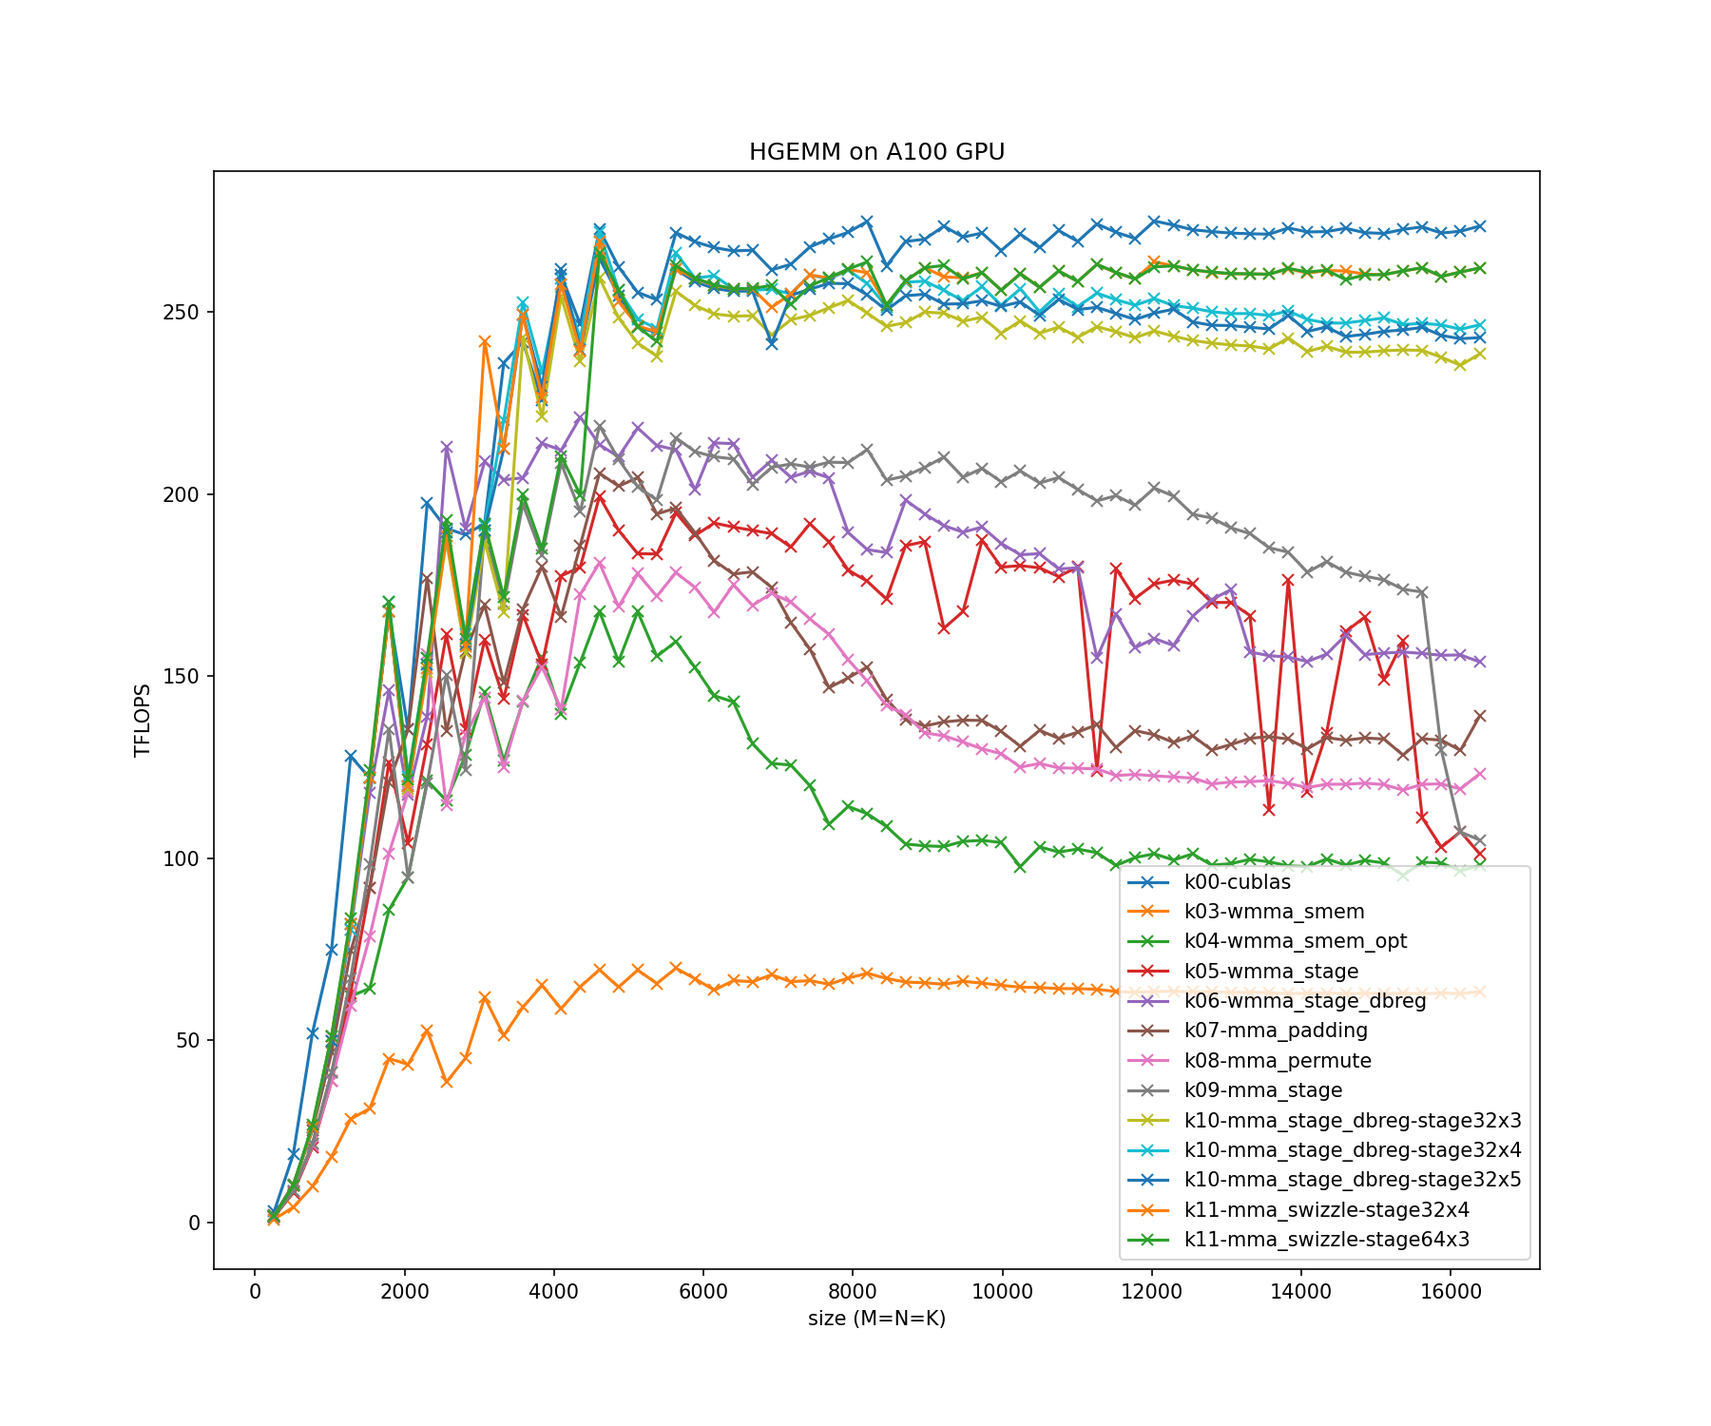
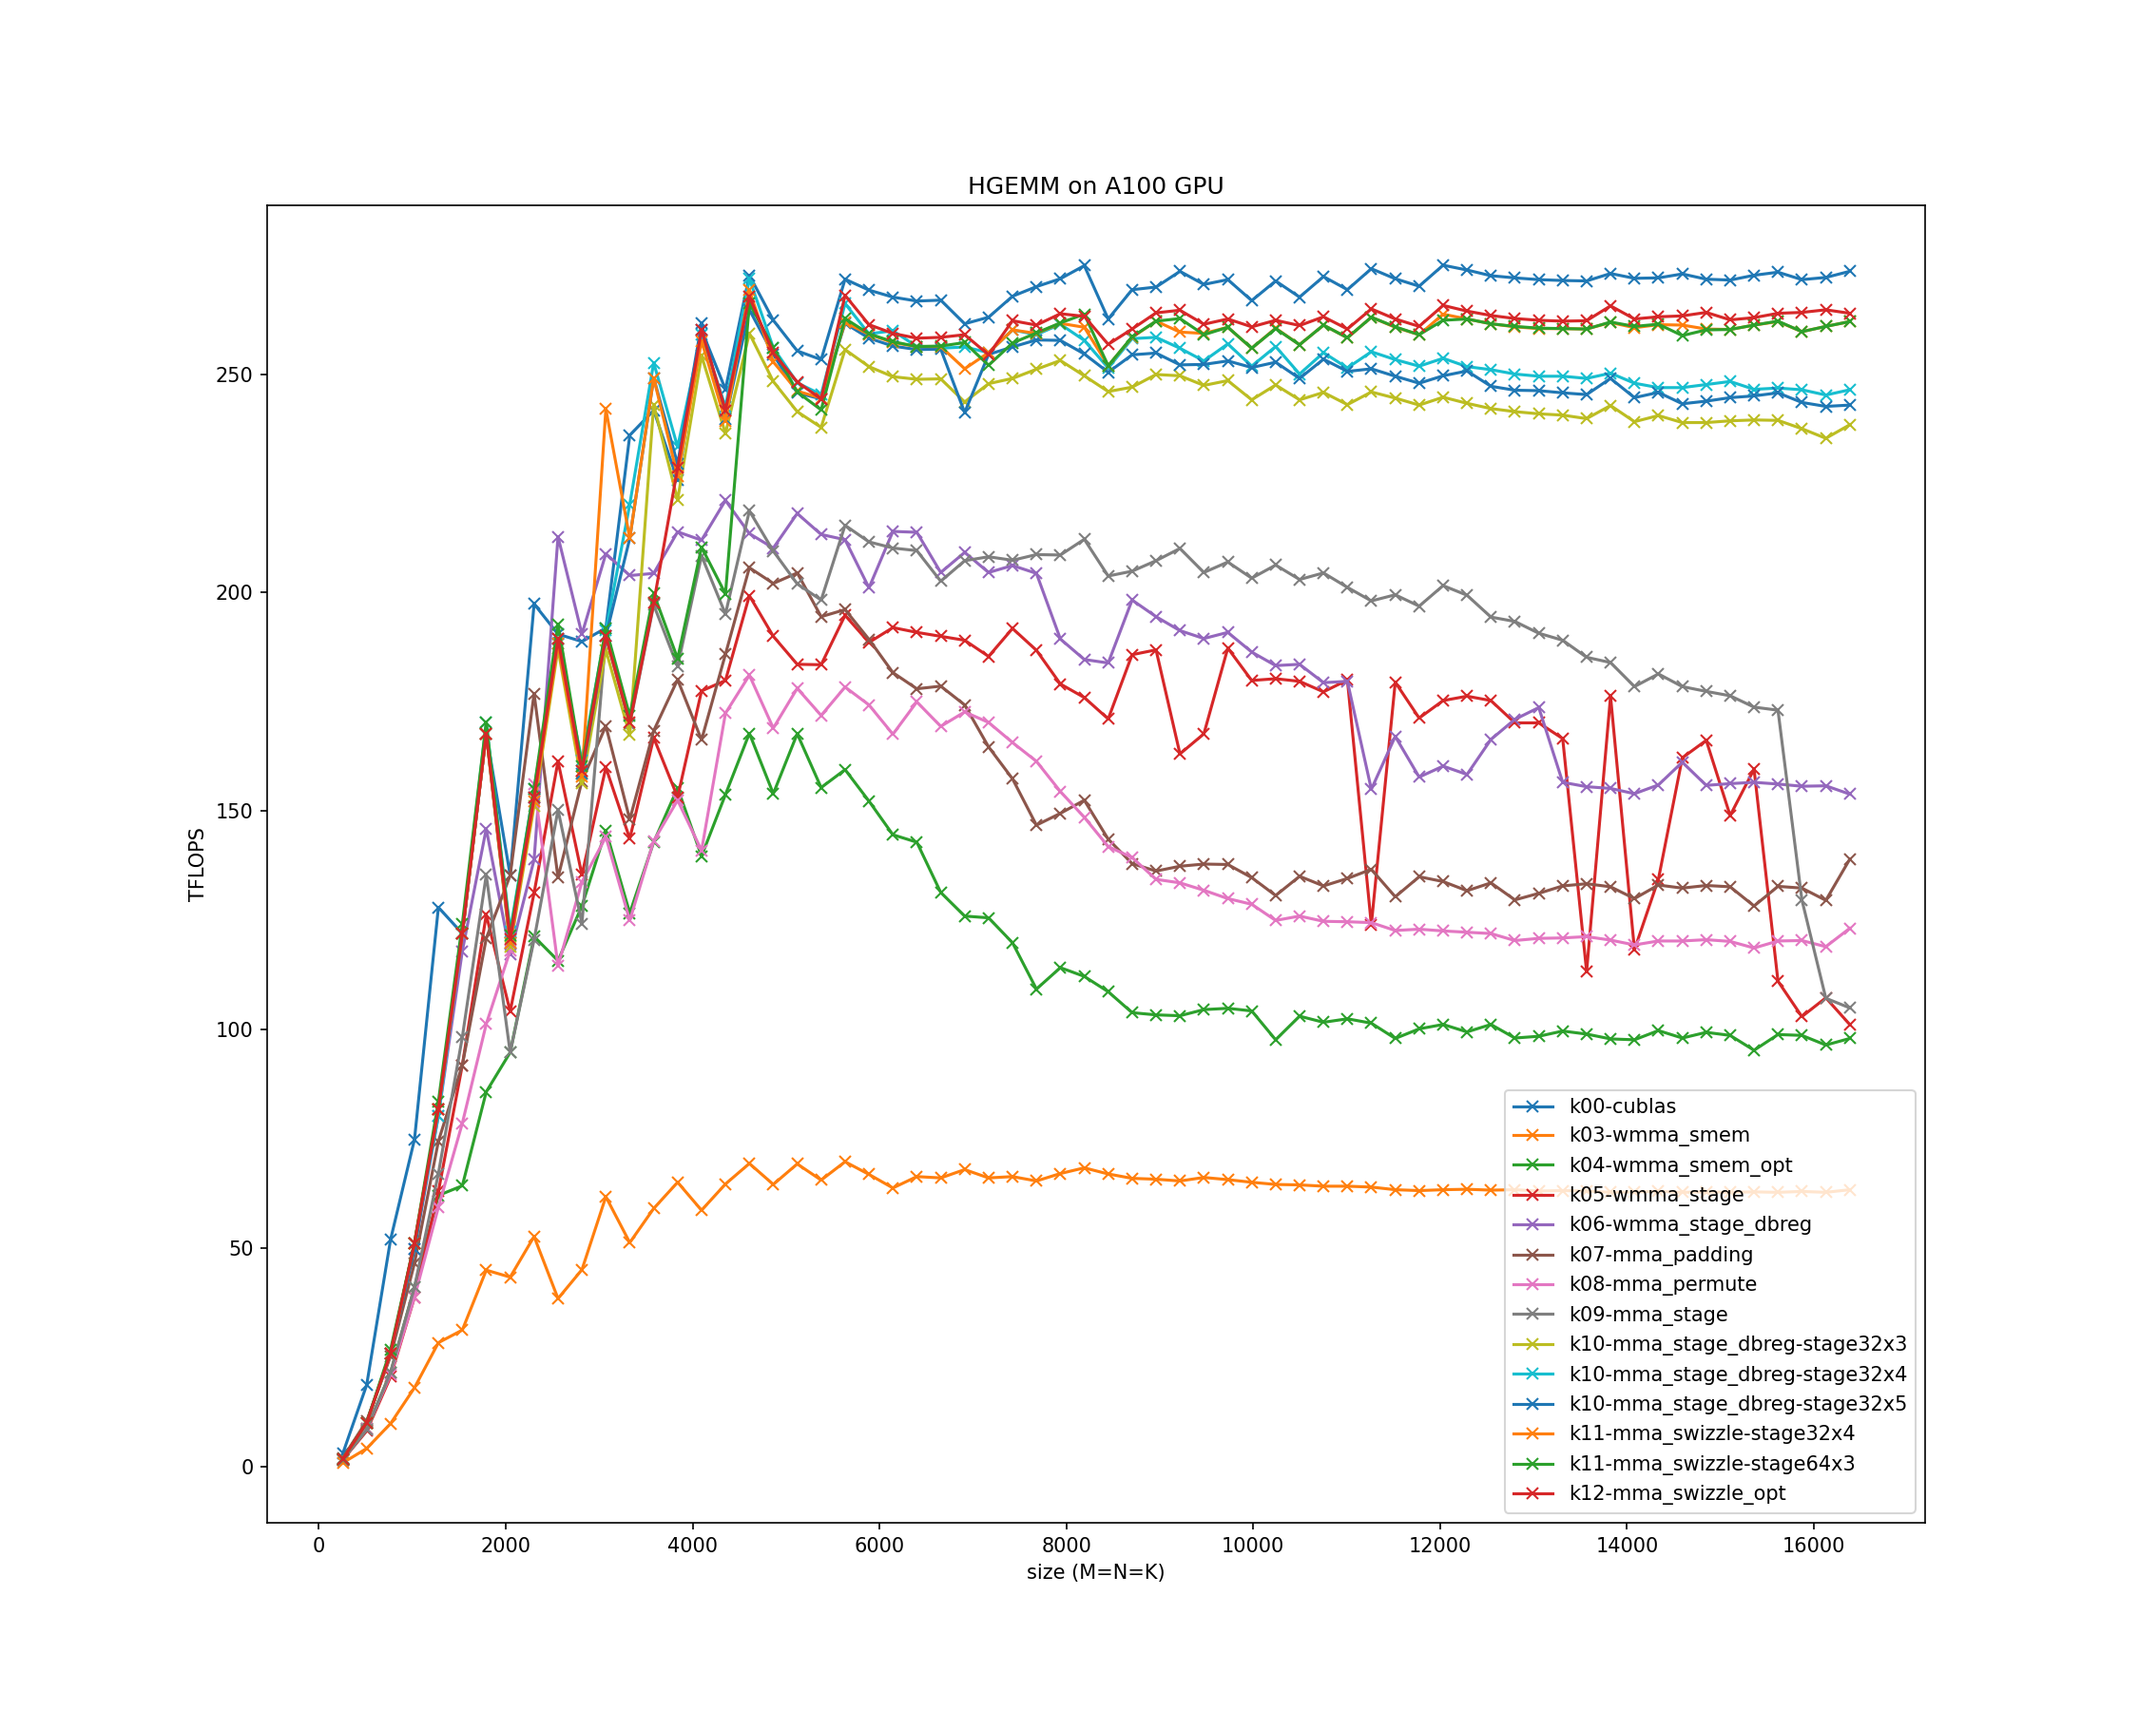
Add hgemm kernel12.

diff --git a/hgemm-tensorcore/scripts/process_data.py b/hgemm-tensorcore/scripts/process_data.py
@@ -16,7 +16,8 @@ kernel_name_map = {
     8: 'mma_permute',
     9: 'mma_stage',
     10: 'mma_stage_dbreg',
-    11: 'mma_swizzle'
+    11: 'mma_swizzle',
+    12: 'mma_swizzle_opt',
 }
 
 def parse_digits(line: str):
@@ -66,7 +67,7 @@ if __name__ == '__main__':
 
     df.to_csv('./result/performance.csv')
 
-    df.plot(marker='x', linestyle='-', figsize=(12, 10))
+    df.plot(marker='x', linestyle='-', figsize=(15, 12))
     plt.title('HGEMM on A100 GPU')
     plt.xlabel('size (M=N=K)')
     plt.ylabel('TFLOPS')

diff --git a/hgemm-tensorcore/README.md b/hgemm-tensorcore/README.md
@@ -6,7 +6,7 @@
 
 ### 性能测试
 
-<img src="./result/performance.png" style="zoom:50%;" />
+<img src="./result/performance.png" style="zoom:40%;" />
 
 ### 单个shape的性能
 
@@ -26,8 +26,12 @@
 | k09_mma_stage        | 161.3 (51.7%) | 基于k08，实现了stage=3的pipeline。cta tile = 256x128x32。    |
 | k10_mma_stage_dbreg  | 204.6 (65.6%) | 基于k09，对shared memory到register的load进行了double buffer。stage=3。 |
 |                      | 212.0 (68.0%) | stage=4。                                                    |
+| k11_mma_swizzle      | 207.4 (66.5%) | 基于k10。block tile的分配进行swizzle。                       |
+| k12_mma_swizzle_opt  | 207.1 (66.4%) | 基于k11。global memory按照warp划分后再访问。                 |
 
-##### K05_wmma_stage：global memory访问是否进行warp切分
+### Misc
+
+#### K05_wmma_stage：global memory访问是否进行warp切分
 
 将一个bM x bN大小的块从global memory搬运到shared memory时，可以将整个cta中的所有线程看作一个整体，也可以先将bMxbN的块进行一维的切分，分配给各个warp。实验发现这两个策略对性能有不可忽略的影响：
 
